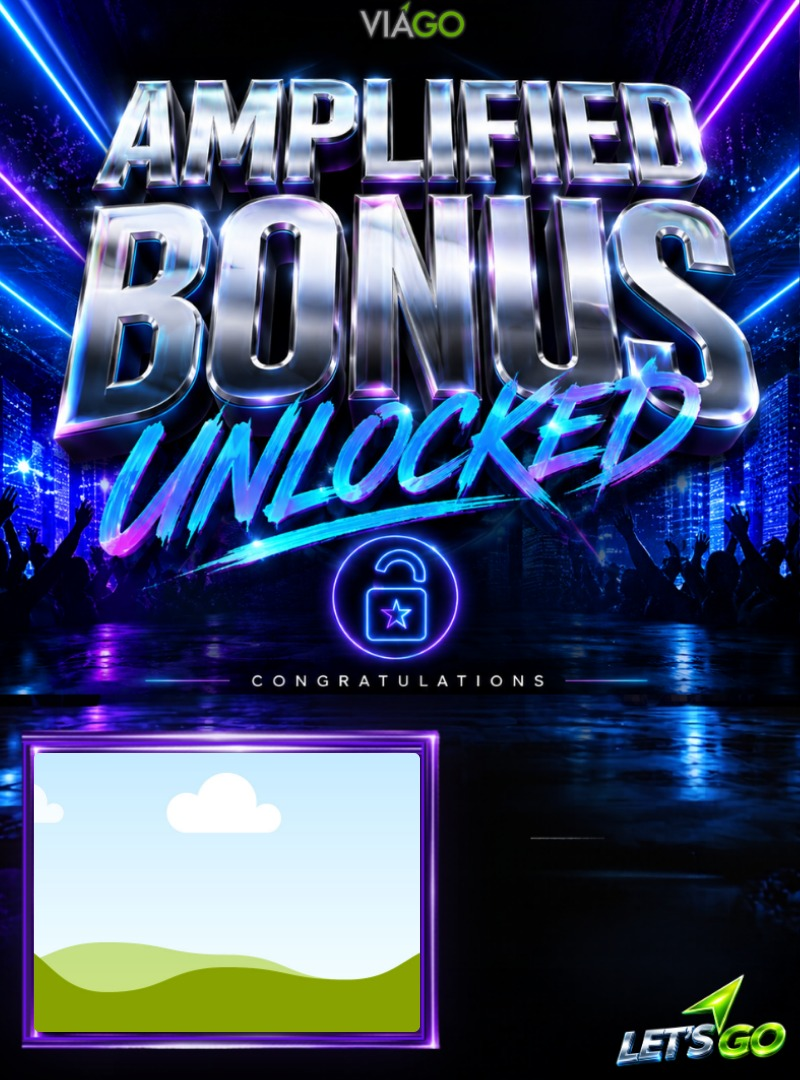
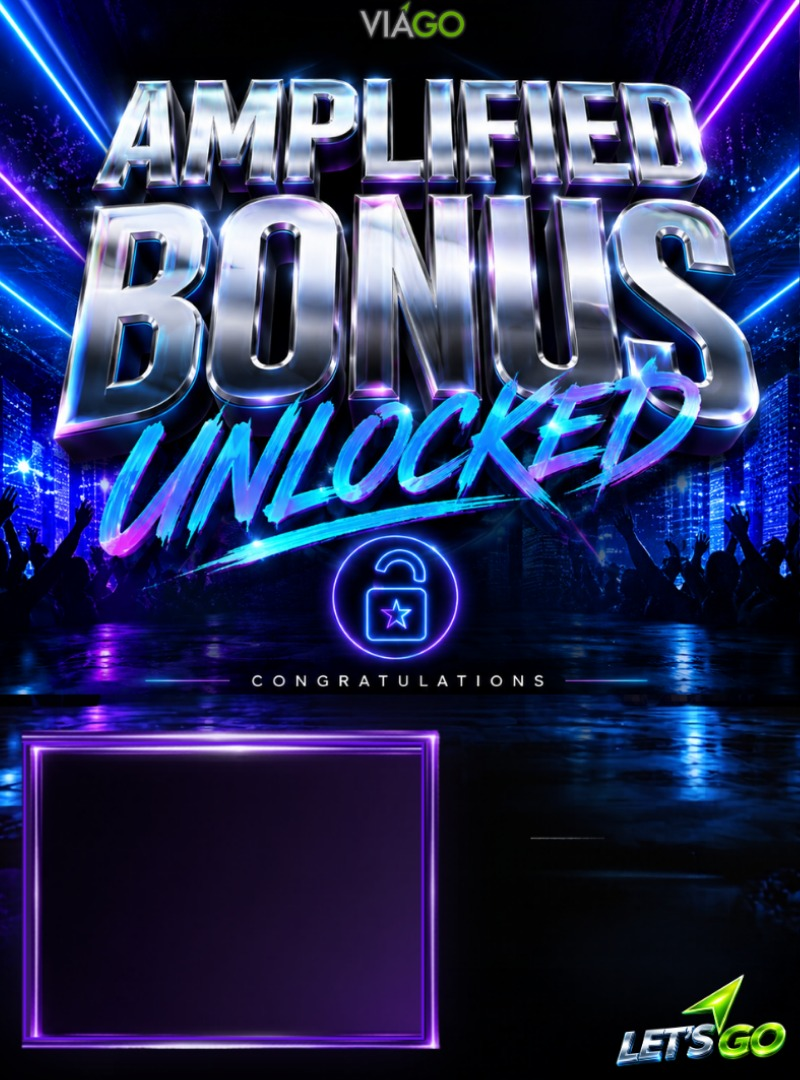
Fix Amplified artwork, wrap long names, centre Mission 30 name, reorder ranks
- Amplified: removed the placeholder that survived the first Canva pass, so
  the empty template no longer shows a blue picture in the picker.
- Names now wrap onto extra lines instead of only shrinking. On Amplified the
  name sits beside the photo, so its width is clamped to the gap between the
  photo's right edge and the page edge and can never overlap the picture.
- Mission 30 name is centred on its bar using real glyph metrics (bar interior
  measured at y 786-942 of 1080) instead of sitting on a guessed baseline.
- Ranks now read low to high: Silver, Gold, Sapphire, Emerald, Elite Emerald.

Claude-Session: https://claude.ai/code/session_01GGWtNHuv7YovfcxjANJuhe

Changed region(s): [[0.0312, 0.6722, 0.5312, 0.9778]]

diff --git a/public/app.js b/public/app.js
@@ -112,22 +112,64 @@ function drawName(t, W, H) {
   const family = s.font || 'Josefin Sans';
   const weight = s.weight || 700;
   const maxW = (s.maxWidth ?? 0.86) * W;
-  let px = s.size * W;
-  const track = () => (s.tracking ?? 0.02) * px;
+  const maxLines = s.wrap ? (s.maxLines || 3) : 1;
+  const words = text.split(/\s+/).filter(Boolean);
 
-  let w = measure(text, px, weight, family, track());
-  let guard = 0;
-  while (w > maxW && px > 10 && guard++ < 40) {
-    px *= Math.max(0.86, maxW / w);
-    w = measure(text, px, weight, family, track());
+  const trackFor = (px) => (s.tracking ?? 0.02) * px;
+
+  // greedily break into lines that fit; a single line when wrap is off
+  const linesAt = (px) => {
+    if (!s.wrap) return [text];
+    const tr = trackFor(px);
+    const out = [];
+    let cur = '';
+    for (const word of words) {
+      const cand = cur ? cur + ' ' + word : word;
+      if (!cur || measure(cand, px, weight, family, tr) <= maxW) cur = cand;
+      else { out.push(cur); cur = word; }
+    }
+    if (cur) out.push(cur);
+    return out;
+  };
+
+  // shrink until every line fits the width AND we are inside the line budget,
+  // so a long name never runs past its area and into the photo
+  let px = s.size * W;
+  let lines = linesAt(px);
+  for (let guard = 0; guard < 60; guard++) {
+    const widest = Math.max(...lines.map((l) => measure(l, px, weight, family, trackFor(px))));
+    if (widest <= maxW && lines.length <= maxLines) break;
+    if (px < 9) break;
+    px *= 0.94;
+    lines = linesAt(px);
+  }
+
+  // real glyph metrics, so centring is optical rather than guessed
+  setFont(px, weight, family, trackFor(px));
+  const m = ctx.measureText(lines[0]);
+  const ascent = m.actualBoundingBoxAscent || px * 0.72;
+  const descent = m.actualBoundingBoxDescent || px * 0.05;
+  const lineH = (s.lineHeight ?? 1.15) * px;
+
+  const x = (s.x ?? 0.5) * W;
+  const y = (s.y ?? 0.5) * H;
+  let firstBaseline;
+  if (s.vAlign === 'middle') {
+    const blockH = (lines.length - 1) * lineH + ascent + descent;
+    firstBaseline = y - blockH / 2 + ascent;
+  } else {
+    // y is the baseline of the LAST line; extra lines stack upward
+    firstBaseline = y - (lines.length - 1) * lineH;
   }
 
   ctx.save();
   ctx.shadowColor = 'rgba(0,0,0,.6)';
   ctx.shadowBlur = px * 0.22;
   ctx.textBaseline = 'alphabetic';
-  paint(text, (s.x ?? 0.5) * W, (s.y ?? 0.5) * H, px, weight, family,
-        track(), s.align || 'center', s.color || '#ffffff');
+  lines.forEach((line, i) => {
+    paint(line, x, firstBaseline + i * lineH, px, weight, family,
+          trackFor(px), s.align || 'center', s.color || '#ffffff');
+  });
   ctx.restore();
 }
 
